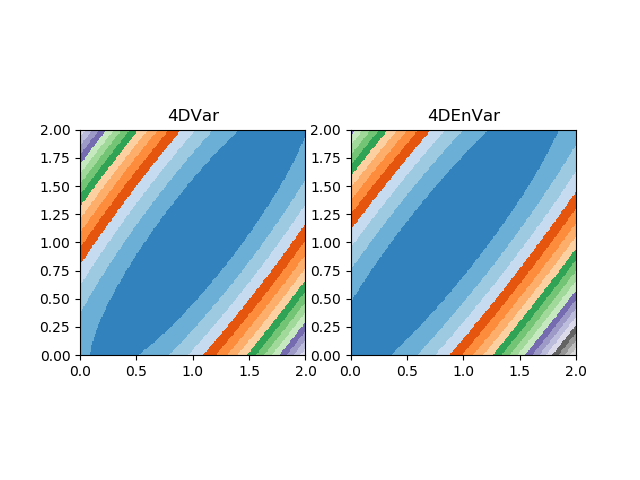
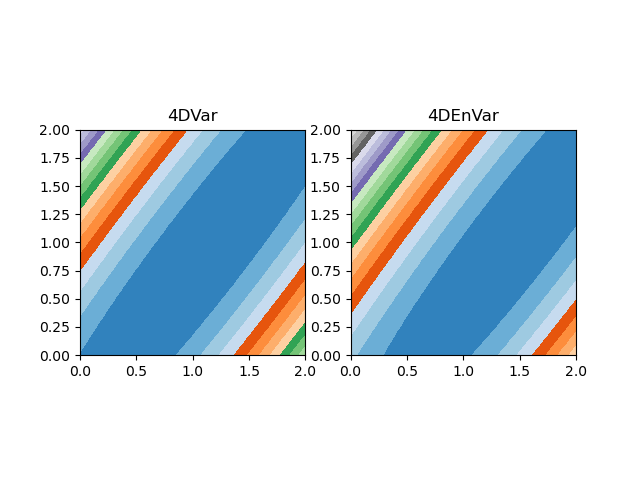
solved problems in error surfaces

diff --git a/4DEnVar_engine.c b/4DEnVar_engine.c
@@ -44,7 +44,6 @@ Return the value of the cost function (J) for the parameters in x
     needed to calculate the cost function #
     (other than w)*/
     cost_vars.R_inv=R_inv;
-    cost_vars.X_dash_b=X_dash_b;
     cost_vars.HX_dash_b=HX_dash_b;
     cost_vars.hx_bar=hx_bar;
     cost_vars.y=y;
@@ -63,8 +62,7 @@ Return the value of the cost function (J) for the parameters in x
     been modified by the above function calls*/
     gsl_linalg_LQ_lssolve(X_dash_b, tau, x_eval, w, residual);
     
-    //J=fourDEnVar_cost_f(w, &cost_vars);
-    J=fourDEnVar_cost_f_error_surface(w, &cost_vars);
+    J=fourDEnVar_cost_f(w, &cost_vars);
     return(J);
 
 }
@@ -338,74 +336,6 @@ double fourDEnVar_cost_f(const gsl_vector *w, void *p)
     return(J);    
 }
 
-
-double fourDEnVar_cost_f_error_surface(const gsl_vector *w, void *p)
-{
-
-    double bgrnd_term ; 
-    double obs_term ; 
-
-    double J;
-    
-    const gsl_vector *hx_bar    = ((fourDEnVar_cost_function_vars *) p)->hx_bar;
-    const gsl_vector *y         = ((fourDEnVar_cost_function_vars *) p)->y;
-    const gsl_matrix *R_inv     = ((fourDEnVar_cost_function_vars *) p)->R_inv;
-    const gsl_matrix *X_dash_b  = ((fourDEnVar_cost_function_vars *) p)->X_dash_b;
-    const gsl_matrix *HX_dash_b = ((fourDEnVar_cost_function_vars *) p)->HX_dash_b;
-
-    gsl_matrix *B = gsl_matrix_alloc(X_dash_b->size1,X_dash_b->size1) ;
-    gsl_matrix *B_inv = gsl_matrix_alloc(X_dash_b->size1,X_dash_b->size1) ;
-
-    int signum_r;
-    gsl_permutation *p_r=gsl_permutation_alloc(B->size1);
-    
-    gsl_vector * work1=gsl_vector_alloc(y->size) ;
-    gsl_vector * work2=gsl_vector_alloc(y->size) ;
-
-    gsl_vector * work3=gsl_vector_alloc(B->size1) ;
-    gsl_vector * work4=gsl_vector_alloc(B->size1) ;
-
-
-    /* B^-1 */
-    //fprintf(stderr,"%ld %ld %ld %ld\n",X_dash_b->size1,X_dash_b->size2,w->size,B->size1 );
-    //fflush(stderr);
-    gsl_blas_dgemm(CblasNoTrans, CblasTrans, 1.0, X_dash_b, X_dash_b, 0.0, B);
-    gsl_linalg_LU_decomp(B, p_r, &signum_r);
-    gsl_linalg_LU_invert(B, p_r, B_inv);
-
-    /* X'b*w */
-    //fprintf(stderr,"%ld %ld %ld %ld\n",X_dash_b->size1,X_dash_b->size2,w->size,work3->size );
-    //fflush(stderr);
-    gsl_blas_dgemv(CblasNoTrans, 1.0, X_dash_b, w, 0.0, work3);
-
-    /* B^-1*(X'b*w) -> B^-1*work3 */    
-    gsl_blas_dgemv(CblasTrans, 1.0, B_inv, work3, 0.0, work4);
-
-    /* (X'b*w)^T*B^-1*(X'b*w) -> work3*work4 */    
-    gsl_blas_ddot(work3, work4, &bgrnd_term);
-
-    /* hx-y */    
-    gsl_vector_memcpy(work1,hx_bar);
-    gsl_blas_daxpy(-1.,y,work1);    
-
-    /* Hx'b * w + (hx-y)*/   
-    /* work1 should be hx-y*/
-    gsl_blas_dgemv(CblasNoTrans, 1.0, HX_dash_b, w, 1.0, work1);
-
-    /* R^-1*(HX'b*w+hx-y) */
-    /* work1 should now be (HX'b*w+hx-y)*/
-    gsl_vector_memcpy(work2,work1);
-    gsl_blas_dgemv(CblasTrans, 1.0, R_inv, work2, 0.0, work1);
-    
-    /*full observation error term*/
-    /* work1 should now be R^-1*(HX'b*w+hx-y)*/
-    /* work2 should now be (HX'b*w+hx-y)*/
-    gsl_blas_ddot(work1, work2, &obs_term);
-    
-    J=0.5*bgrnd_term+0.5*obs_term;    
-    J=0.5*bgrnd_term;    
-    return(J);    
-}
 
 
 void fourDEnVar_cost_df(const gsl_vector *w, void *p, gsl_vector *df)

diff --git a/linear_tests/genLinear_JSurface.py b/linear_tests/genLinear_JSurface.py
@@ -31,13 +31,13 @@ class linearModelEnsemble_JSurf(linearModelEnsemble):
         return surf
     
     def get_R_inv(self):
-        R_inv=np.eye(len(self.obs_y))*1./self.obs_uncert
+        R_inv=np.eye(len(self.obs_y))*1./np.power(self.obs_uncert,2)
         return R_inv
     
     def get_B_inv(self):
         B_inv=np.eye(len(self.uncert_prior))
         for i in range(len(self.uncert_prior)):
-            B_inv[i,i]=1./self.uncert_prior[i]
+            B_inv[i,i]=1./np.power(self.uncert_prior[i],2)
         return B_inv
 
     def get_J_4DVar(self, params):
@@ -51,8 +51,8 @@ class linearModelEnsemble_JSurf(linearModelEnsemble):
         t2=np.matmul(self.R_inv, np.asarray(hx.eval(self.obs_x))-np.asarray(self.obs_y))
         t2=np.matmul(np.asarray(hx.eval(self.obs_x))-np.asarray(self.obs_y), t2)
         
-        return(t1/2.)
-        #return((t1+t2)/2.)
+        #return(t1/2.)
+        return((t1+t2)/2.)
     
     def get_JSurface_4DVar(self, dims=(0,1),range1=(0,2,0.1),range2=(0,2,0.1)):
         surf=self.get_blank_surface(range1,range2)
@@ -98,6 +98,7 @@ class linearModelEnsemble_JSurf(linearModelEnsemble):
         ax2.set_title("4DEnVar") 
         
         plt.savefig("jSurf_compare.png")
+        plt.clf()
     
 if __name__=="__main__":
     import subprocess
@@ -113,13 +114,14 @@ if __name__=="__main__":
     
     l.write_files()
     l.write_JSurface_xeval_file(range1=range1,range2=range2)
-    
+
+    #run the 4DEnVar surface generator via a subprocess    
     data=subprocess.run(["../4DEnVar_surf","0xb.dat","0hx.dat","0y.dat","0R.dat","0hxbar.dat","0x_eval.dat"],capture_output=True)
     data=data.stdout.decode("utf-8").rstrip().split("\n")
         
     l.plot_JSurface_compare(data, range1=range1,range2=range2)
     
-    #run the 4DEnVar via a subprocess
+    #run the 4DEnVar optimiser via a subprocess
     out=subprocess.run(["../4DEnVar","0xb.dat","0hx.dat","0y.dat","0R.dat","0hxbar.dat"],capture_output=True)
     out=out.stdout.decode("utf-8").rstrip().split("\n")
 
@@ -128,7 +130,7 @@ if __name__=="__main__":
     for i in range(len(truth)):
         analysis.append(float(out[i]))
             
-    plt.clf()
+    
     l.plot(filename="jSurf_modelfit.png",analysis=analysis)
 
     

diff --git a/linear_tests/genLinear.py b/linear_tests/genLinear.py
@@ -74,6 +74,7 @@ class linearModelEnsemble:
             plt.show()
         else:    
             plt.savefig(filename)
+        plt.clf()
                
     def write_files(self):
     
@@ -87,7 +88,7 @@ class linearModelEnsemble:
             for m in range(self.nobs):
                 for n in range(self.nobs):
                     if n==m:
-                        f.write("%f "%self.obs_uncert)
+                        f.write("%f "%np.power(self.obs_uncert,2))
                     else:
                         f.write("0.0 ")
                 f.write("\n")

diff --git a/4DEnVar_engine.h b/4DEnVar_engine.h
@@ -20,15 +20,11 @@ double fourDEnVar_cost_f(const gsl_vector *, void *);
 void fourDEnVar_cost_df(const gsl_vector *, void *, gsl_vector *);
 void fourDEnVar_cost_fdf (const gsl_vector *, void *, double *, gsl_vector *);
 
-double fourDEnVar_cost_f_error_surface(const gsl_vector *, void *);
-
 typedef struct  {
 
     gsl_vector * y; 
     gsl_vector * hx_bar; 
     gsl_matrix * R_inv;
-    //only need for the new error surfaces:
-    gsl_matrix * X_dash_b;
     gsl_matrix * HX_dash_b;
 
 } fourDEnVar_cost_function_vars ;

diff --git a/linear_tests/jSurf_scatter.py b/linear_tests/jSurf_scatter.py
@@ -13,7 +13,7 @@ if __name__=="__main__":
     range2=(0.,2,0.02)
 
     #coefs_truth, coefs_prior, uncert_prior, nens, nobs, obs_uncert
-    l=linearModelEnsemble_JSurf(truth,truth,[0.05,0.05,0.05],100,10,0.5,rand_obs_y=True)
+    l=linearModelEnsemble_JSurf(truth,truth,[0.05,0.05,0.05],100,10,0.01,rand_obs_y=True)
     
     l.write_files()
     l.write_JSurface_xeval_file(range1=range1,range2=range2)
